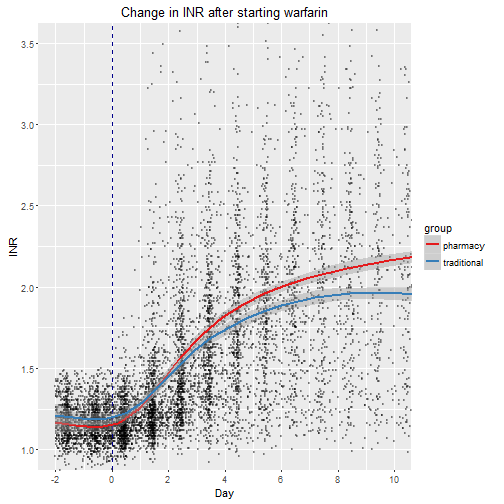
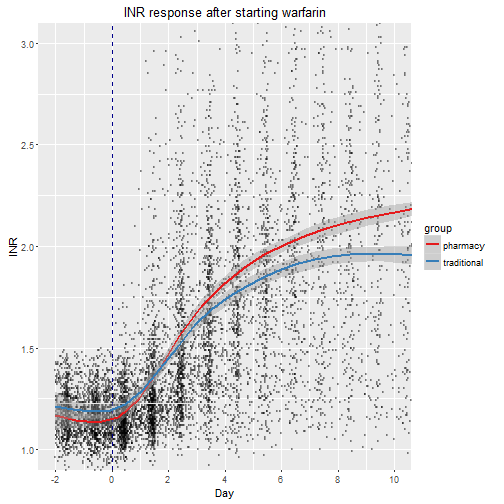
change in INR and Hgb slides

diff --git a/warfarin_analysis.md b/warfarin_analysis.md
@@ -14,25 +14,17 @@ Annual Warfarin Utilization
 
 ![plot of chunk graph_utilization](warfarin_analysis-figure/graph_utilization-1.png)
 
-Utilization of Pharmacy Warfarin Dosing Service
+Utilization of Pharmacy Dosing Service
 ========================================================
 ![plot of chunk dose_service_use](warfarin_analysis-figure/dose_service_use-1.png)
 
-Utilization of Pharmacy Warfarin Dosing Service
+Orders by Pharmacy Dosing Service
 ========================================================
 ![plot of chunk dose_service_use2](warfarin_analysis-figure/dose_service_use2-1.png)
-
-Utilization by Medical Service
-========================================================
-![plot of chunk graph_services](warfarin_analysis-figure/graph_services-1.png)
 
 Dosing Service Utilization by Medical Service
 ========================================================
 ![plot of chunk ds_med_service_curr](warfarin_analysis-figure/ds_med_service_curr-1.png)
-
-Utilization by Hospital Unit
-========================================================
-![plot of chunk graph_locations](warfarin_analysis-figure/graph_locations-1.png)
 
 Comparison
 ========================================================
@@ -59,6 +51,7 @@ Methods: Exclusion
     - ALT > 10x ULN
     - T.Bili > 3x ULN
 * Missing goals of therapy data
+* Readmission encounters
 
 Demographics
 ========================================================
@@ -86,9 +79,13 @@ Disposition
 ========================================================
 ![plot of chunk disposition](warfarin_analysis-figure/disposition-1.png)
 
-Changes in INR
+INR Response
 ========================================================
 ![plot of chunk inr](warfarin_analysis-figure/inr-1.png)
+
+Change in INR
+========================================================
+![plot of chunk inr2](warfarin_analysis-figure/inr2-1.png)
 
 Time in Therapeutic Range
 ========================================================
@@ -98,9 +95,13 @@ Time with Critical INR Values
 ========================================================
 ![plot of chunk time_above4](warfarin_analysis-figure/time_above4-1.png)
 
-Changes in Hemoglobin
+Hemoglobin Response
 ========================================================
 ![plot of chunk hgb](warfarin_analysis-figure/hgb-1.png)
+
+Change in Hemoglobin
+========================================================
+![plot of chunk hgb2](warfarin_analysis-figure/hgb2-1.png)
 
 Historical Comparison
 ========================================================
